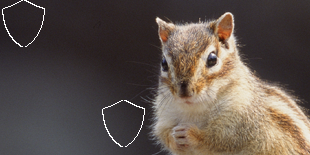
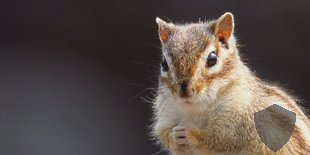
*

diff --git a/core/image/image.go b/core/image/image.go
@@ -8,6 +8,7 @@ import (
 	"image/color"
 	"image/jpeg"
 	"image/png"
+	"log"
 	"os"
 	"path/filepath"
 	"strings"
@@ -133,4 +134,35 @@ func ToBase64(img image.Image) (string, error) {
 	encoded := base64.StdEncoding.EncodeToString(buf.Bytes())
 
 	return encoded, nil
+}
+
+func ModifyImageRGBA(img image.Image, rgba color.RGBA) image.Image {
+	bounds := img.Bounds()
+	width, height := bounds.Dx(), bounds.Dy()
+
+	var newImg *image.RGBA
+
+	if imgRGBA, ok := img.(*image.RGBA); ok {
+		newImg = image.NewRGBA(image.Rect(0, 0, width, height))
+		copy(newImg.Pix, imgRGBA.Pix)
+	} else if imgNRGBA, ok := img.(*image.NRGBA); ok {
+		newImg = image.NewRGBA(image.Rect(0, 0, width, height))
+		copy(newImg.Pix, imgNRGBA.Pix)
+	} else {
+		log.Fatal("Unsupported image format")
+	}
+
+	for y := 0; y < height; y++ {
+		for x := 0; x < width; x++ {
+			// 获取像素颜色
+			r, g, b, a := newImg.At(x, y).RGBA()
+
+			// 如果是黑色，将其更改为新颜色
+			if r == 0 && g == 0 && b == 0 && a > 0 {
+				newImg.Set(x, y, rgba)
+			}
+		}
+	}
+
+	return newImg
 }

diff --git a/captcha/slide/test_test.go b/captcha/slide/test_test.go
@@ -6,6 +6,7 @@ import (
 	"golang.org/x/image/colornames"
 	"golang.org/x/image/draw"
 	"image"
+	"image/color"
 	"image/png"
 	"log"
 	"os"
@@ -35,8 +36,13 @@ func TestName(t *testing.T) {
 
 	cutImage := image2.CutImage(backImage, fixedImage, randomX, randomY)
 
-	Cut(backImage, cutImage, 100, 100)
-	//backImage = OverlayImage(backImage, fixedImage, randomX, randomY)
+	//Cut(backImage, cutImage, 100, 100)
+	backImage = image2.OverlayImage(backImage, image2.ModifyImageRGBA(fixedImage, color.RGBA{
+		R: 40,
+		G: 40,
+		B: 40,
+		A: 160,
+	}), randomX, randomY)
 	//cutImage = OverlayImage(cutImage, actImage, 0, 0)
 	//
 	//matrixTemplate := CreateTransparentImage(actImage.Bounds().Dx(), backImage.Bounds().Dy())

diff --git a/core/net/net.go b/core/net/net.go
@@ -2,6 +2,7 @@ package net
 
 import (
 	"fmt"
+	"github.com/zhouohz/go-tools/core/util/str"
 	"net"
 	"net/http"
 	"net/url"

diff --git a/core/util/number/num.go b/core/util/number/num.go
@@ -2,6 +2,7 @@ package number
 
 import (
 	"fmt"
+	"github.com/zhouohz/go-tools/core/util/str"
 	"strconv"
 	"strings"
 )
